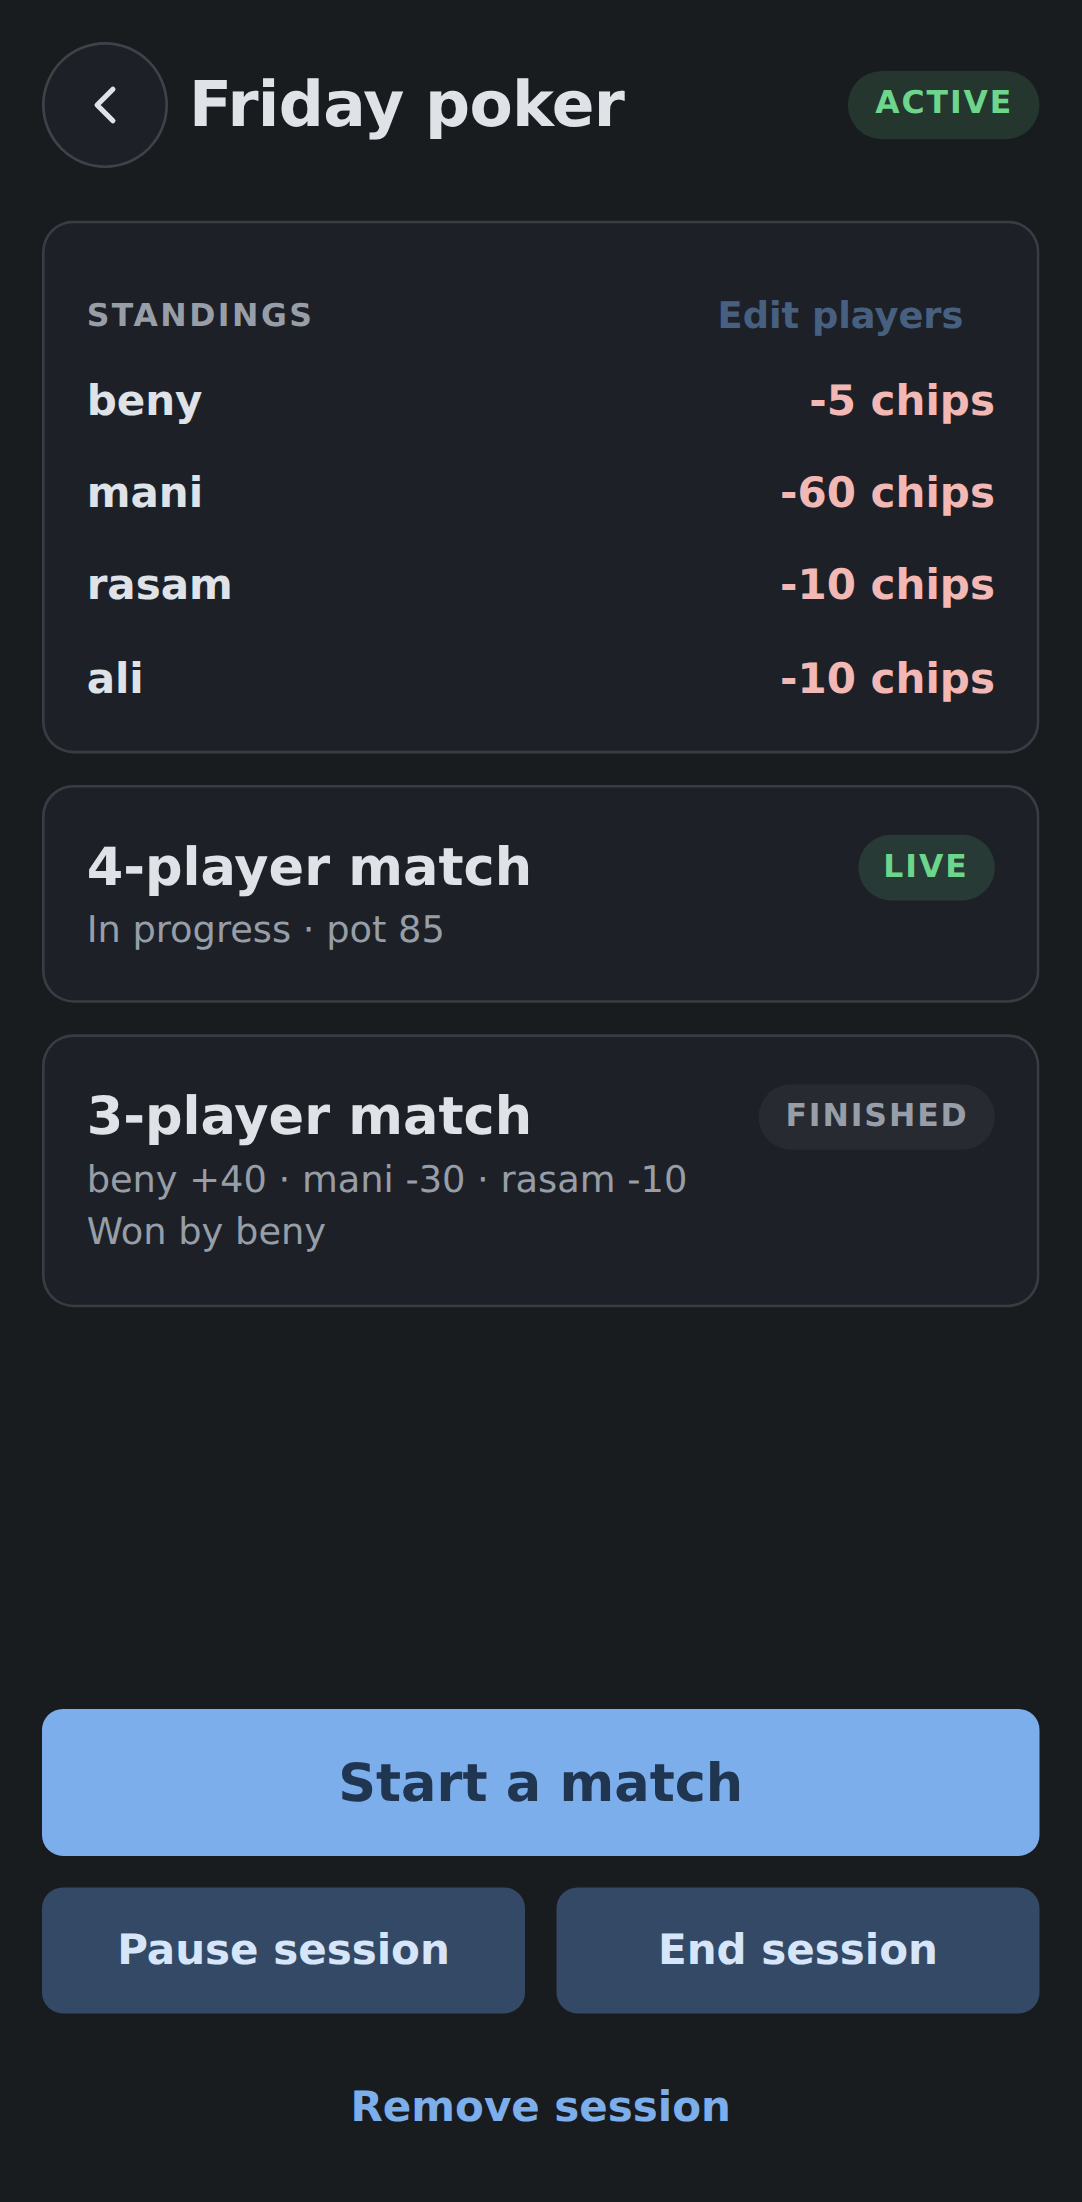
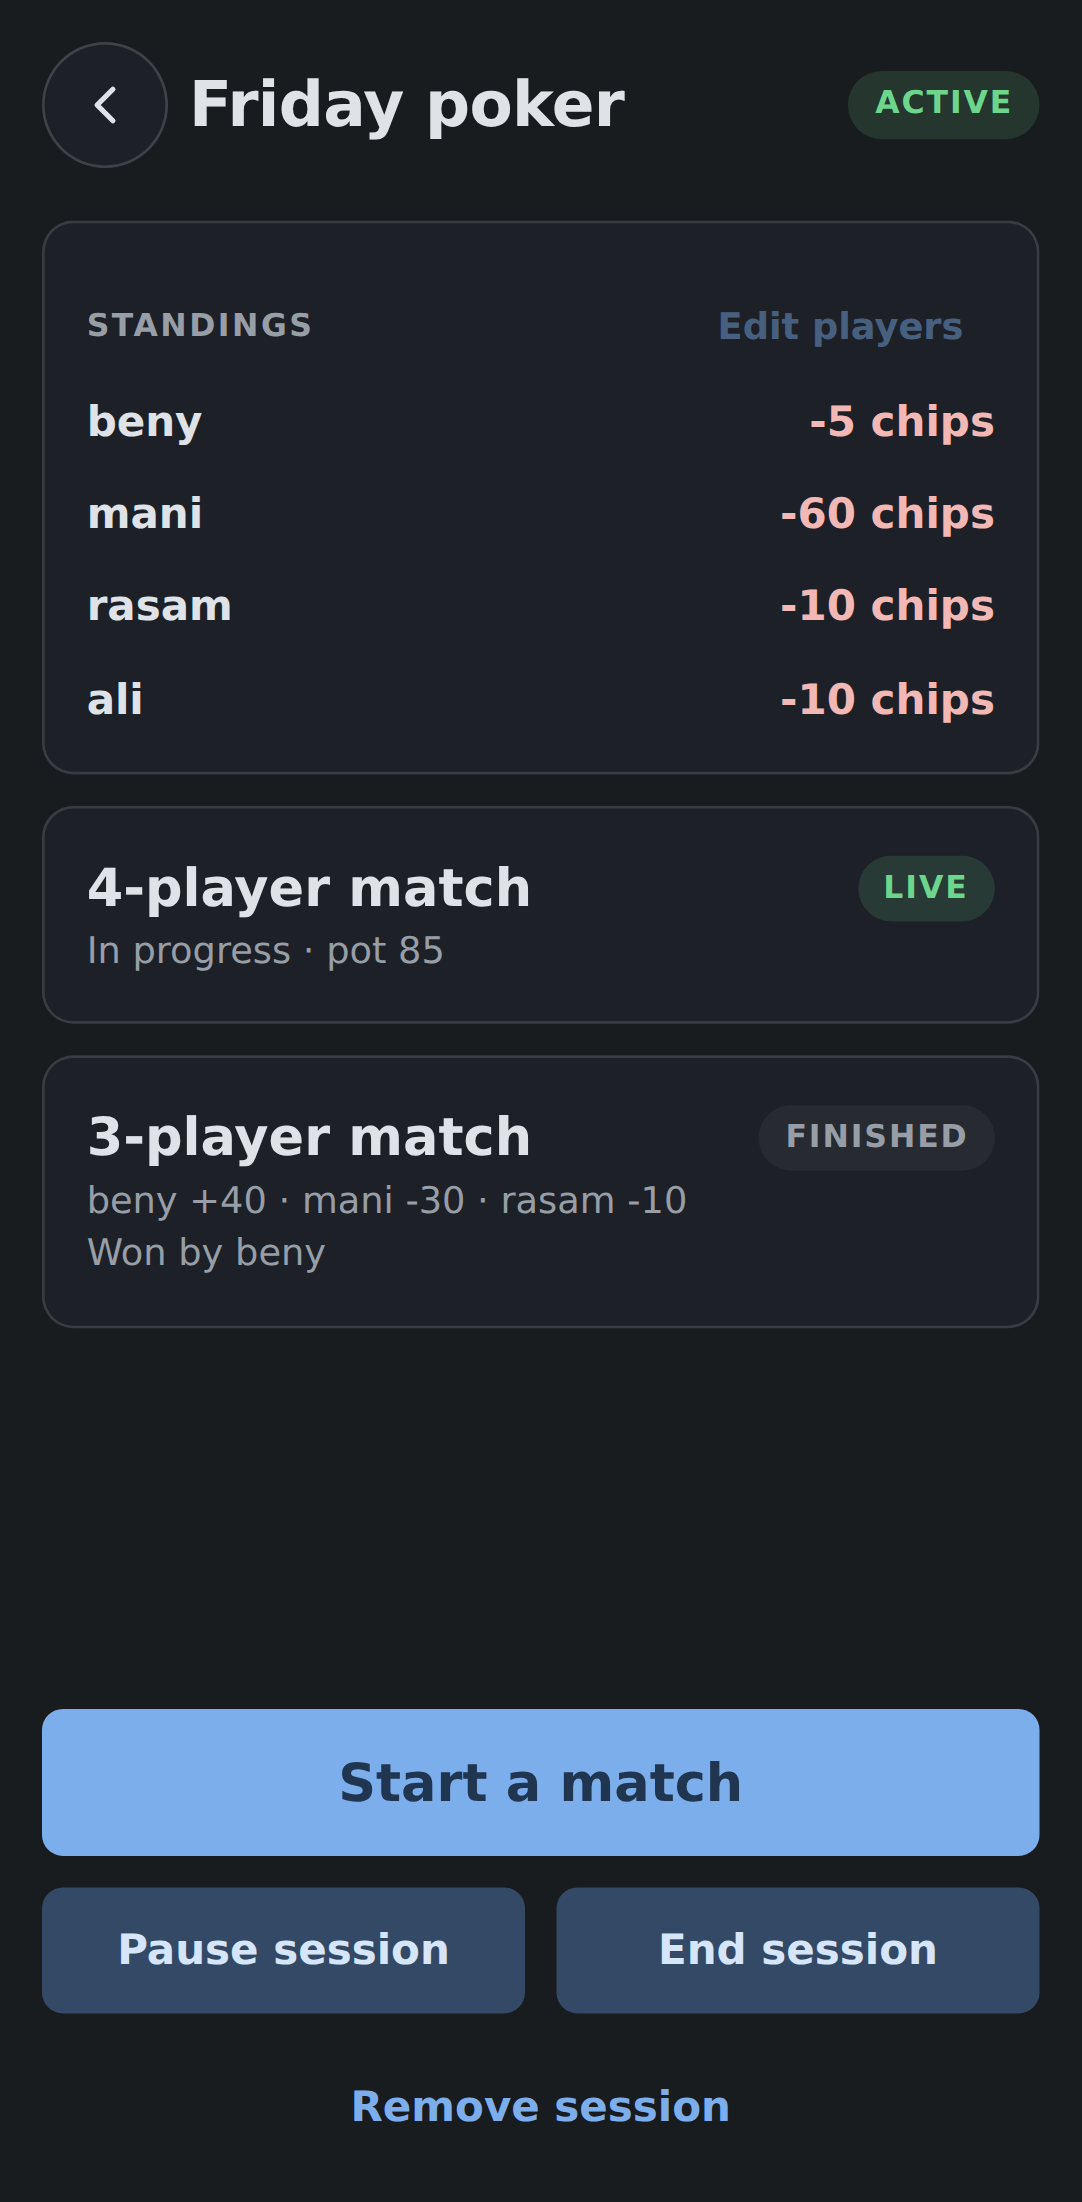
fix(client): wire accent swatch colors and restore touch target height

Changed region(s): [[0.0305, 0.1235, 0.9455, 0.5867]]

diff --git a/src/client/styles/tokens.css b/src/client/styles/tokens.css
@@ -607,27 +607,27 @@
   color-scheme: dark;
 }
 
-[data-swatch="blue"] {
+[data-accent="blue"] {
   --swatch-light: #35639c;
   --swatch-dark: #7daeec;
 }
-[data-swatch="teal"] {
+[data-accent="teal"] {
   --swatch-light: #127070;
   --swatch-dark: #69bbba;
 }
-[data-swatch="green"] {
+[data-accent="green"] {
   --swatch-light: #3c703f;
   --swatch-dark: #4bc957;
 }
-[data-swatch="orange"] {
+[data-accent="orange"] {
   --swatch-light: #924c2b;
   --swatch-dark: #e29572;
 }
-[data-swatch="rose"] {
+[data-accent="rose"] {
   --swatch-light: #94464e;
   --swatch-dark: #e58f95;
 }
-[data-swatch="violet"] {
+[data-accent="violet"] {
   --swatch-light: #7638c0;
   --swatch-dark: #b49ce1;
 }

diff --git a/tests/theme.test.ts b/tests/theme.test.ts
@@ -85,9 +85,10 @@ describe("token stylesheet", () => {
   it("emits a preview color for every accent swatch", () => {
     const css = generateTokensCss();
     for (const accent of ACCENTS) {
-      expect(css, accent).toContain(`[data-swatch="${accent}"]`);
-      expect(css, accent).toContain(DOCUMENTED_PRIMARIES[accent].light);
-      expect(css, accent).toContain(DOCUMENTED_PRIMARIES[accent].dark);
+      expect(css, accent).toContain(
+        `[data-accent="${accent}"] {\n  --swatch-light: ${DOCUMENTED_PRIMARIES[accent].light};`,
+      );
+      expect(css, accent).toContain(`--swatch-dark: ${DOCUMENTED_PRIMARIES[accent].dark};`);
     }
   });
 

diff --git a/src/client/styles/components.css b/src/client/styles/components.css
@@ -69,7 +69,7 @@
 }
 
 .btn--sm {
-  min-height: var(--control-h-compact);
+  min-height: var(--control-h);
   padding-inline: var(--space-3);
   font-size: var(--text-sm);
 }
@@ -526,7 +526,7 @@
   position: relative;
   display: grid;
   place-items: center;
-  min-height: var(--control-h-compact);
+  min-height: var(--control-h);
   border-radius: var(--radius-sm);
   color: var(--on-surface-variant);
   font-size: var(--text-sm);

diff --git a/scripts/theme.ts b/scripts/theme.ts
@@ -375,7 +375,7 @@ function swatchSection(): string {
   const lines: string[] = [];
   for (const accent of ACCENTS) {
     lines.push(
-      `[data-swatch="${accent}"] {`,
+      `[data-accent="${accent}"] {`,
       `  --swatch-light: ${buildPalette("light", accent).primary};`,
       `  --swatch-dark: ${buildPalette("dark", accent).primary};`,
       "}",
